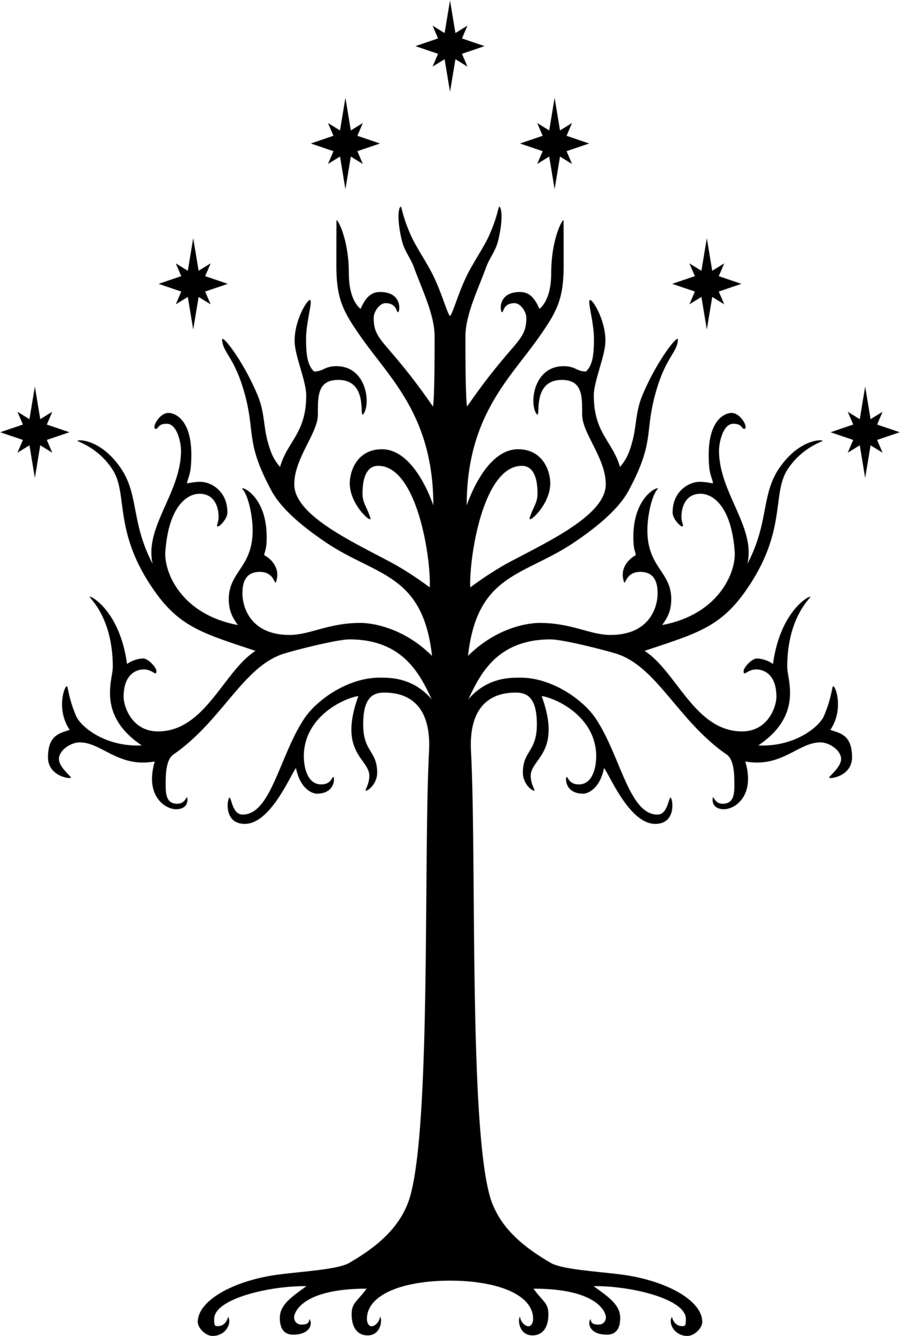
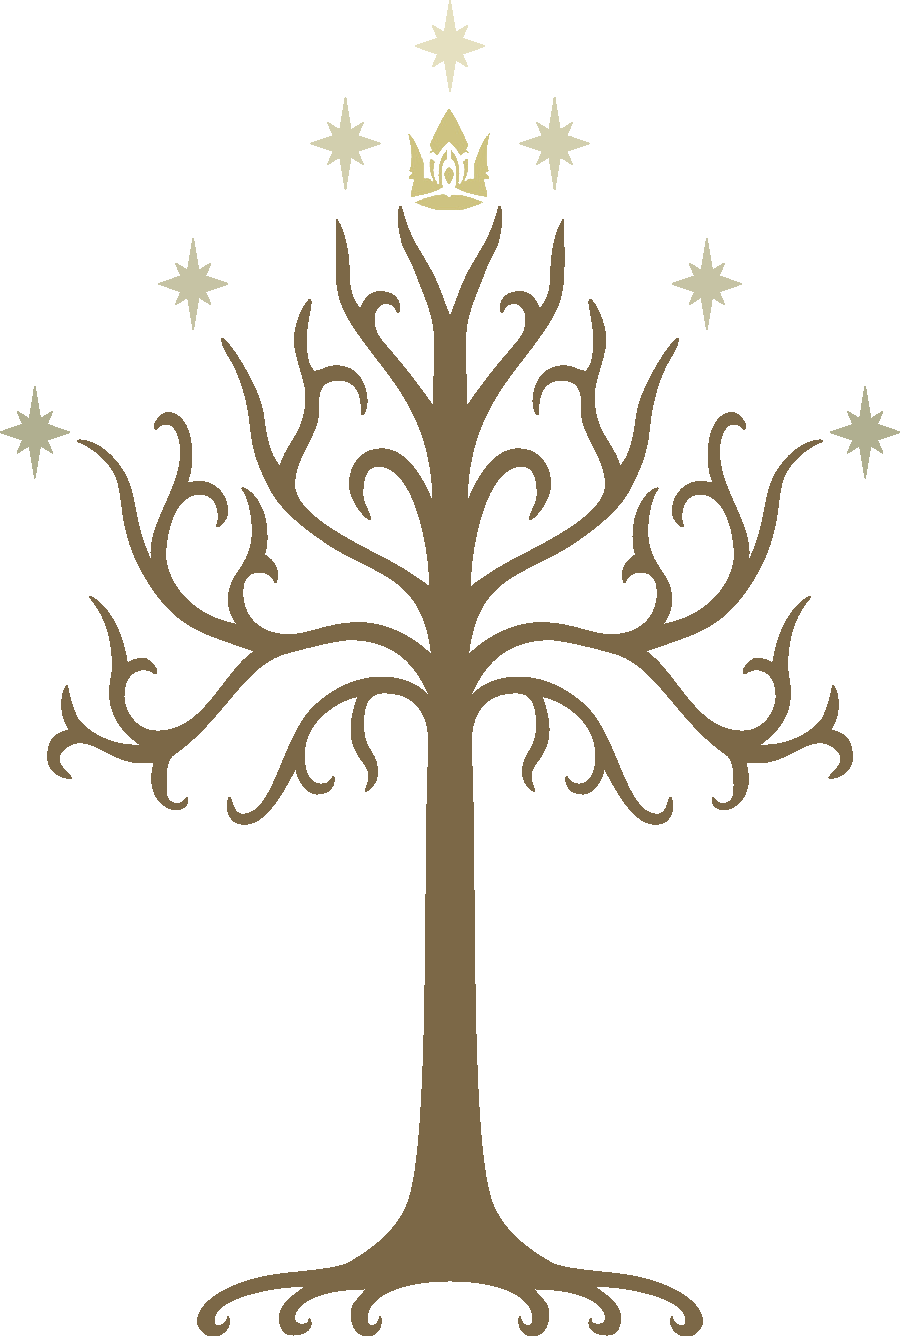
final images adjustments

diff --git a/src/app/gondor/gondor.component.html b/src/app/gondor/gondor.component.html
@@ -1,6 +1,9 @@
 <div class="page-container">
-  <img src="/assets/dont-save/treewithring.jpg" class="page-img">
+  <img src="/assets/dont-save/gondor.png" class="page-img">
   <div class="page-text">
-    "The white tree of Gondor calls for help"
+    "There flowered a White Tree, <br>
+    and that was for Gondor but Seven Stars were about it, <br>
+    and a high crown above it, <br>
+    the signs of Elendil that no lord had born for years beyond count."
   </div>
 </div>
